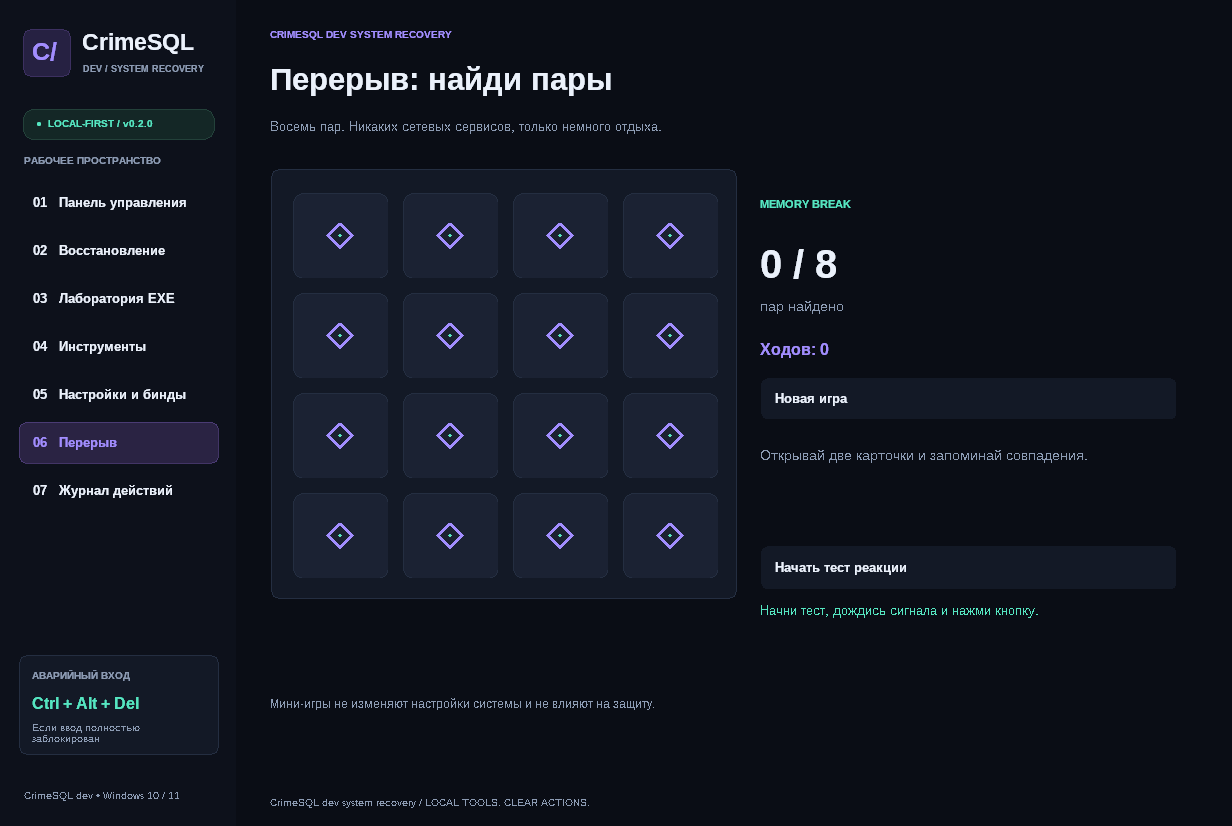
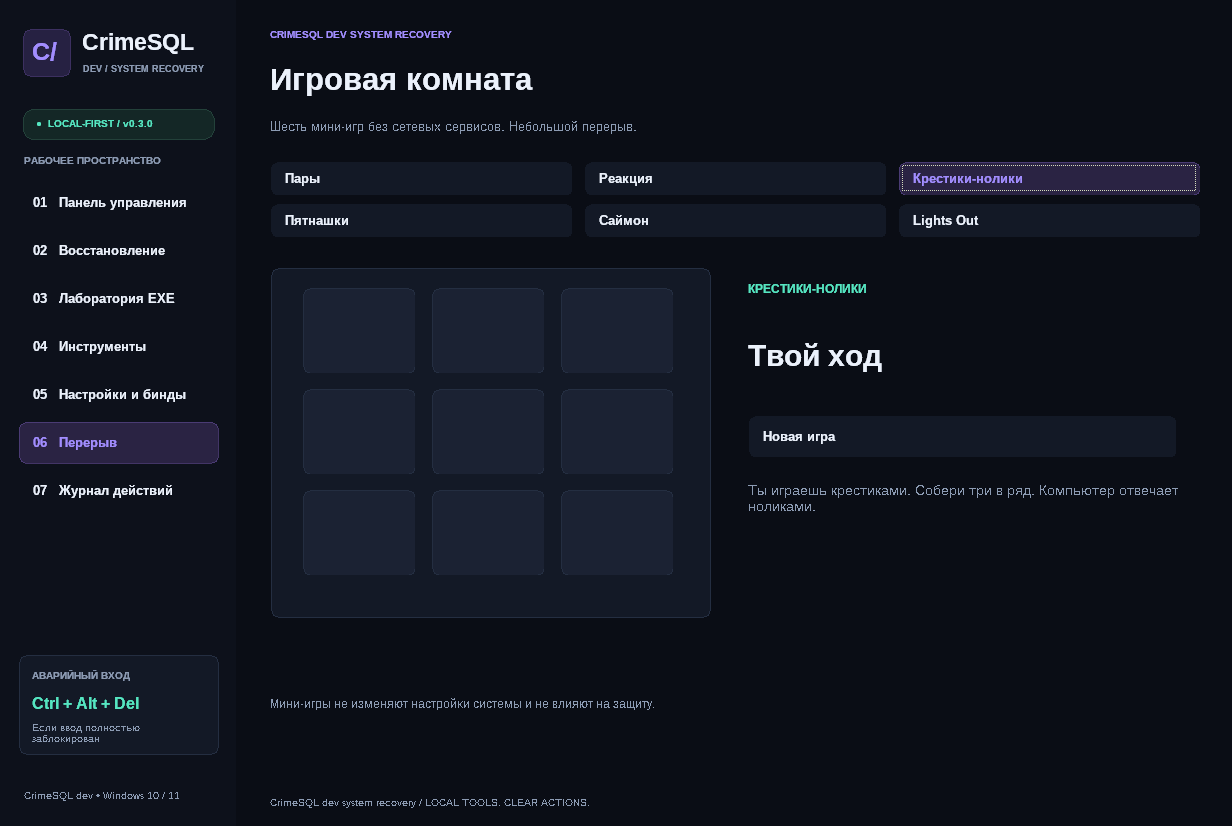
Document 0.3 recovery toolkit, verified Windows checks and current UI

diff --git a/docs/validation.md b/docs/validation.md
@@ -1,23 +1,28 @@
-# Проверка версии 0.2.0
+# Проверка версии 0.3.0
 
-В Linux-среде разработки выполнены:
+## Автоматические проверки
 
-- CMake Release-сборка переносимой логики с предупреждениями как ошибками; CTest: 2/2 набора прошли, 44 проверки политик и 75 проверок новых функций.
-- Кросс-сборка Windows x64 через GCC / MinGW-w64 14 с `-Wall -Wextra -Wpedantic -Werror`: CrimeSQLRecovery.exe, CrimeSQLObserver.exe и тесты собраны.
-- Windows-интеграционные тесты под Wine 10: **43 проверки прошли**. Это реальные операции с отдельным временным ключом HKCU и безвредными файлами: восстановление значения, точная резервная копия UTF-16, отказ при устаревшем наблюдении, создание/удаление/переименование через ReadDirectoryChangesW, сохранение конфигурации Sandbox без перезаписи существующего файла, приоритет своего процесса с возвратом исходного. Реальные политики и автозапуск тест не меняет.
-- Исправлен разбор плотно упакованных уведомлений: он использует memcpy и проверку границ, не требует выравнивания каждой записи по DWORD. Добавлен тест на этот случай и некорректные длины.
-- Приложение запущено под Wine: проверены навигация, диагностика, отрисовка, игра с открытием карточек, ввод/сохранение Ctrl+Shift+K для мыши, загрузка настройки после перезапуска. Затем окно свёрнуто через ShowWindow(SW_MINIMIZE): глобальное сочетание вызвало действие и показало результат сброса области курсора.
-- Наблюдатель запущен отдельно под Wine и показал реальные тестовые файловые события. На снимке observer-wine.png — безвредные события тестов, не запуск вируса и не сеанс настоящей Windows Sandbox.
-- Таблицы импортов обоих MinGW EXE содержат DLL Windows, без отдельных DLL GCC / libstdc++.
+- Linux CMake Release с предупреждениями как ошибками: три набора CTest прошли. Политики — 44 проверки; прежние функции — 75; новые игры и команды восстановления — 7709 проверок, включая перебор 569 законченных партий крестиков-ноликов, проверку решаемости пятнашек/Lights Out и последовательности «Саймона».
+- Кросс-сборка Windows x64 через GCC / MinGW-w64 14 с `-Wall -Wextra -Wpedantic -Werror` проходит.
+- Windows-интеграционные проверки под Wine 10: 43 проверки реестра, резервных копий, временных файлов, настоящих уведомлений создания/удаления/переименования, сохранения конфигурации Sandbox и приоритета собственного процесса прошли.
+- Новый `ui_tests` запускает отдельный процесс приложения с тестовыми настройками. Проверяет все семь страниц, шесть игр и четыре категории инструментов, пиксели кнопок при стирании фона/отрисовке/нажатии/наведении, 84 цикла переключений и размеров, сворачивание и восстановление. Проверяется отсутствие таймера на статической странице и расход CPU ниже 150 мс за 600 мс простоя. Локальный прогон под Wine прошёл; измерено 0 мс CPU в этом интервале.
+- Утечки GDI проверяются после прогрева всех страниц: число ресурсов не должно вырасти более чем на 12 после стресс-прогона. Wine не поддерживает GetGuiResources, поэтому **под Wine эта проверка пропущена**, а не считается успешной. На настоящем Windows-раннере нулевой или растущий счётчик приводит к ошибке теста.
+- В GitHub Actions Windows запускает все пять наборов тестов и `windows_readonly_smoke.ps1`. Smoke-тест запускает чистый Windows PowerShell и CMD `/d`, проверяет справку SFC/DISM, запрашивает `reagentc /info`, записывает наличие командлетов Defender. Также разбирает настоящие семь скриптов, сгенерированных C++, через PowerShell Parser, не выполняя их. Машинный отчёт `windows-readonly-smoke.json` включается в ZIP.
 
-## Что эти проверки не подтверждают
+Исходники версии 0.3.0 (`e81a8fd`) прошли [GitHub Actions № 6](https://github.com/Bezsmertny/SU---Added-by-Crimesql/actions/runs/38833007119): оба задания Windows и Linux успешны, включая все пять Windows-наборов, проверку GDI на настоящем Windows и PowerShell smoke-тест. Публикация ZIP разрешена workflow только после успешных заданий Windows и Linux для тега выпуска.
 
-Wine не является Windows Sandbox. Полный цикл запуска Sandbox, вложенная виртуализация, запуск установщиков и работа с заражённой системой здесь не проверялись. Команда Microsoft Defender не запускалась: в среде нет Defender. Поведение BlockInput в Wine — заглушка, поэтому снятие реальной блокировки ввода не подтверждено. В приложении явно указаны ограничения Windows на чужие блокировки.
+## Что исправлено в отрисовке
 
-GitHub Actions выполняет сборку MSVC x64 и все три набора тестов на windows-latest; выпуск с ZIP создаётся только после успешных заданий Windows и Linux. Наличие workflow само по себе не подтверждает результат конкретного запуска.
+Кнопки перехватывают WM_PAINT, WM_PRINTCLIENT и WM_ERASEBKGND. Весь элемент рисуется в переиспользуемом буфере и переносится одним BitBlt, в том числе при прямых запросах owner-draw от Windows. Родительское окно использует композицию дочерних окон. Раскладка пакетно меняет только отличающиеся позиции и видимость; массового hide/show больше нет. Буферы пересоздаются только при изменении размеров.
 
-## Проверка на тестовой Windows перед использованием с образцами
+Декоративная анимация обновляет небольшую область щита. На статических страницах таймер отключается; ожидание окна операции проверяется раз в секунду. Фоновая декоративная анимация прекращается при деактивации/сворачивании.
 
-Используйте одноразовую тестовую VM Windows Pro/Enterprise/Education с виртуализацией и включённой Sandbox. Начните с безвредного EXE, который создаёт, меняет, переименовывает и удаляет файлы. Убедитесь, что наблюдатель готов до старта образца, показывает старое и новое имя, а основной ПК не изменяется. Проверьте отсутствие сети, общего буфера обмена и записи в папку образца; при закрытии Sandbox журнал должен удаляться.
+## Границы проверки
 
-Отдельно проверьте автозапуск после входа и отключение через интерфейс, реальную фильтрацию клавиш с восстановлением прежних настроек доступности, бинды при свёрнутом окне, DPI на используемых мониторах, команду Defender и обратный импорт .reg. Включение этих функций в UI не заменяет проверку на конкретной версии Windows.
+Автоматические тесты не запускают вирусы, SFC `/scannow`, DISM RestoreHealth, проверки Defender с удалением угроз, автономную проверку Defender и перезагрузку в WinRE. Это реальные изменяющие/длительные операции, а не безопасные тестовые команды. Их успешное завершение на конкретном ПК **не подтверждено**. Синтаксическая проверка PowerShell не подтверждает успешность восстановления системы.
+
+Wine не является Windows Sandbox и реализует BlockInput заглушкой. Запуск Sandbox, работа с заражённой системой, снятие реальной чужой блокировки ввода, вход в WinRE и автономное сканирование требуют отдельной проверки на тестовой Windows. Наличие WindowsSandbox.exe не гарантирует включённую виртуализацию. «PowerShell администратора» — обычная Windows, а не WinRE.
+
+Прежние ограничения сохраняются: журнал лаборатории содержит события всей Sandbox без привязки к конкретному EXE, часть событий может быть потеряна с явным уведомлением, записи удаляются при закрытии Sandbox. Снимки интерфейса под Wine относятся к тестовой среде; файловые события на снимке наблюдателя — безвредный тест.
+
+Перед использованием с подозрительными образцами проверьте лабораторию на безвредном EXE в одноразовой VM Windows Pro/Enterprise/Education, включая отсутствие сети/буфера обмена/записи в папку образца. Отдельно проверьте свои DPI/мониторы, автозапуск после входа, бинды и откат .reg.

diff --git a/README.md b/README.md
@@ -1,12 +1,12 @@
-# CrimeSQL dev system recovery · 0.2.0
+# CrimeSQL dev system recovery · 0.3.0
 
-Утилита восстановления Windows 10/11 x64 на C++17 / Win32 / GDI+. Новый интерфейс с фиолетовыми и мятными акцентами, анимированной навигацией, горячими клавишами, изолированной лабораторией EXE и мини-играми.
+Утилита восстановления Windows 10/11 x64 на C++17 / Win32 / GDI+. Исправленная буферизованная отрисовка, горячие клавиши, средства восстановления Windows, изолированная лаборатория EXE и шесть мини-игр.
 
 ![CrimeSQL Recovery](docs/interface-wine.png)
 
 Снимок приложения под Wine. Сведения о компьютере относятся к тестовой среде.
 
-[Настройки и бинды](docs/settings-wine.png) · [Мини-игры](docs/games-wine.png) · [Журнал безвредных тестовых событий](docs/observer-wine.png)
+[Настройки и бинды](docs/settings-wine.png) · [Мини-игры](docs/games-wine.png) · [Консоли и WinRE](docs/tools-wine.png) · [Журнал безвредных тестовых событий](docs/observer-wine.png)
 
 ## Скачать и запустить
 
@@ -56,17 +56,39 @@
 
 Журнал виден **внутри Sandbox**. Кнопка сохранения создаёт TSV тоже внутри неё; при закрытии среды журнал удаляется. Автоматической записи отчётов в основной ПК нет. Папки `LabSessions` с копиями образцов остаются на основном ПК: удаляйте ненужные сеансы вручную после закрытия Sandbox, не запускайте сохранённые образцы.
 
-## Настройки, копии и мини-игра
+## Средства восстановления
+
+Раздел «Инструменты» содержит четыре вкладки:
+
+| Вкладка | Возможности |
+|---|---|
+| Защита | Безопасность Windows, быстрая/полная проверка Defender, автономная проверка Defender |
+| Система | SFC `/verifyonly`, SFC `/scannow`, DISM `/Online /Cleanup-Image /RestoreHealth`, точки восстановления |
+| Консоли / WinRE | PowerShell администратора без профиля, CMD администратора без AutoRun, `reagentc /info`, параметры восстановления |
+| Отчёты | Аудит Run/RunOnce, настройки автозагрузки, сведения о системе, экспорт диагностики |
+
+**PowerShell администратора работает в текущей Windows. Это не отдельный «режим восстановления».** Для настоящего WinRE откройте «WinRE и безопасный режим», сохраните работу и выберите расширенный запуск в настройках Windows. В штатной WinRE обычно доступна командная строка CMD; PowerShell по умолчанию там не установлен.
+
+SFC и DISM восстанавливают повреждения Windows, а не удаляют вредоносные программы. Изменяющие систему команды требуют подтверждения; затем Windows запрашивает права администратора. DISM может использовать Windows Update и сеть. Вывод команд остаётся в окне PowerShell; нажмите Enter после просмотра, чтобы закрыть его. Журналы сохраняются в `Reports`. Сам факт успешного запуска или код 0 не подтверждают отсутствие угроз.
+
+**Автономная проверка Defender перезагружает компьютер.** Она требует отдельного подтверждения, сохранённой работы и настроенного WinRE. При включённом BitLocker подготовьте ключ восстановления. Никаких автоматических перезагрузок при запуске приложения или диагностике нет.
+
+Аудит автозагрузки читает Run/RunOnce в HKCU/HKLM, включая 32-битное представление HKLM, и открывает локальный текстовый отчёт. Он ничего не удаляет и не охватывает службы, задачи планировщика и все способы закрепления. Проверьте личные пути и аргументы команд перед отправкой отчёта кому-либо.
+
+## Настройки, копии и мини-игры
 
 Данные расположены в `%LOCALAPPDATA%\CrimeSQL dev system recovery`:
 
 - `settings.ini` — бинды, приоритет, анимации;
 - `Backups` — исходные значения политик в `.reg`;
-- `LabSessions` — копии выбранных образцов и конфигурации `.wsb`.
+- `LabSessions` — копии выбранных образцов и конфигурации `.wsb`;
+- `Reports` — журналы операций и отчёты диагностики/автозагрузки.
 
 Если резервную копию записать не удалось, политика не изменяется. Для отката проверьте нужный `.reg` и импортируйте его **в той же учётной записи**: это вернёт исходное ограничение. Старые копии версии 0.1.0 остаются в `%LOCALAPPDATA%\NEDOHACKERS lite\Backups`.
 
-В разделе «Перерыв» — поиск восьми пар с подсчётом ходов и тест реакции с измерением времени в миллисекундах. Мини-игры не изменяют систему и не влияют на антивирусную проверку.
+В разделе «Перерыв» теперь шесть игр: пары, реакция, крестики-нолики против компьютера, пятнашки, «Саймон» и Lights Out. Пятнашки и Lights Out генерируются с решением. «Саймон» показывает последовательность, которую нужно повторить; кнопка «Новая игра» сбрасывает текущую игру. Мини-игры не изменяют систему и не влияют на защиту.
+
+Отрисовка кнопок полностью буферизована, включая нажатия, фокус и печать. Страницы меняют только нужные позиции/видимость; все кнопки больше не скрываются и не показываются заново. Буферы повторно используются. На статических страницах в простое анимационный таймер выключен; при свёрнутом/неактивном окне декоративная анимация не крутится.
 
 ## Сборка
 
@@ -87,4 +109,4 @@ cmake --build build --parallel 2
 ctest --test-dir build --output-on-failure
 ```
 
-`recovery_tests` проверяет политики и `.reg`. `feature_tests` — бинды, изоляцию конфигурации Sandbox, переименования, игру. `windows_integration_tests` использует отдельный временный ключ HKCU и безвредную временную папку: проверяет резервные копии, отказы при устаревшем значении и реальные создание/переименование/удаление файлов через ReadDirectoryChangesW. Автозапуск, настройки доступности и реальные системные политики тест не меняет. Итоги и оставшиеся ручные проверки — [docs/validation.md](docs/validation.md).
+`recovery_tests` проверяет политики и `.reg`. `feature_tests` — бинды, изоляцию конфигурации Sandbox, переименования и пары. `game_tests` — новые игры и команды восстановления. `windows_integration_tests` использует отдельный временный ключ HKCU и безвредную временную папку: проверяет резервные копии, отказы при устаревшем значении и реальные создание/переименование/удаление файлов через ReadDirectoryChangesW. Автозапуск, настройки доступности и реальные системные политики тест не меняет. `ui_tests` запускает отдельный процесс `--ui-test` и проверяет цвета кнопок, нажатия, 84 цикла навигации/размера, сворачивание, GDI-ресурсы и отсутствие таймера на статической странице. Отдельный Windows smoke-тест проверяет запуск PowerShell/CMD, справку SFC/DISM и сведения WinRE без исправлений и перезагрузки. Итоги и оставшиеся ручные проверки — [docs/validation.md](docs/validation.md).

diff --git a/docs/release-notes.md b/docs/release-notes.md
@@ -1,14 +1,15 @@
-CrimeSQL dev system recovery 0.2.0 для Windows 10/11 x64.
+CrimeSQL dev system recovery 0.3.0 для Windows 10/11 x64.
 
-- Новое название, оформление, анимации и мини-игры на поиск пар и реакцию.
-- Настраиваемые глобальные бинды для мыши, клавиатуры и диспетчера задач.
-- Восстановление захвата курсора и фильтрации клавиш с явными ограничениями Windows.
-- Добровольный автозапуск текущего пользователя, обычный/высокий приоритет приложения.
-- Полная проверка через установленный Microsoft Defender.
-- Лаборатория EXE через Windows Sandbox: файловые события создания, изменения, удаления и переименования внутри среды. Сеть и перенаправления отключены, папка образца только для чтения.
+- Исправлена отрисовка кнопок при нажатиях и смене страниц: собственная буферизация, без стандартной белой заливки и массового hide/show.
+- Повторное использование GDI-буферов, перерисовка только области движущегося элемента; на статической странице таймер отключается.
+- Ещё четыре игры: крестики-нолики, пятнашки, «Саймон», Lights Out. Всего шесть.
+- PowerShell и CMD администратора, сведения WinRE и параметры расширенного запуска.
+- SFC для проверки/восстановления, DISM RestoreHealth, точки восстановления.
+- Быстрая и автономная проверка Defender, аудит автозагрузки Run/RunOnce и локальные отчёты.
+- Добавлены автоматические стресс-проверки UI и безопасные проверки штатных инструментов Windows.
 
-Скачайте CrimeSQL-dev-system-recovery-Windows-x64.zip, распакуйте всю папку и запустите CrimeSQLRecovery.exe. Оставьте CrimeSQLObserver.exe рядом.
+Распакуйте весь ZIP, закройте старую версию и запустите CrimeSQLRecovery.exe. CrimeSQLObserver.exe оставьте рядом.
 
-Лаборатория требует Windows Pro/Enterprise/Education, виртуализацию и включённый компонент Windows Sandbox. Файловый журнал находится внутри Sandbox, содержит фоновую активность и не устанавливает авторство EXE; при закрытии среды удаляется. Приложение не запускает образцы на основном ПК.
+PowerShell открывается в текущей Windows, не в WinRE. В стандартной WinRE обычно есть CMD, а PowerShell не установлен. Автономная проверка Defender требует подтверждения и перезагружает ПК: сохраните работу и подготовьте ключ BitLocker, если он используется. SFC/DISM исправляют повреждения Windows; они не заменяют антивирус.
 
-Windows не позволяет снять чужую блокировку BlockInput обычным приложением; при полной блокировке ввода используйте Ctrl+Alt+Del. Утилита не заменяет антивирус и не гарантирует устранение заражения. Подробности и порядок использования находятся в README.
+Ограничения лаборатории Sandbox и восстановления чужих блокировок ввода описаны в README. Исправления системы, автономная проверка и перезагрузка не выполнялись в автоматических тестах.
